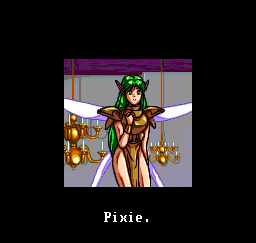
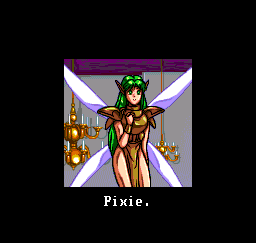
Publish final Xak I & II patch with Pixie background fix

diff --git a/README.md b/README.md
@@ -6,11 +6,11 @@ English dialogue, menus and cinematic subtitles for the Japanese PC Engine Super
 
 ## Download
 
-[Download the patch package](https://github.com/randomprojectsfactory/xak-i-ii-pce-english/releases/latest/download/Xak-I-II-English-2026.10.27.1.zip)
+[Download the final patch](https://github.com/randomprojectsfactory/xak-i-ii-pce-english/releases/download/v2026.11.17/Xak-I-II-English-Final.zip)
 
-Release: **2026.10.27.1**. The download contains two xdelta patches, a hash-checking patcher and documentation. **No BIN, CUE, ISO, BIOS, audio files or game disk images are distributed.**
+**Final release · 2026.11.17.** Apply this cumulative patch directly to the original Japanese disc. It includes all previous fixes and corrects a brief line of stray pixels during Pixie’s appearance in **BEGINNING**. The fix was confirmed on MiSTer MM2. See [issue #6](https://github.com/randomprojectsfactory/xak-i-ii-pce-english/issues/6).
 
-This update corrects English text rendering in the Xak II portion and positions cinematic subtitles within the intended 224-line visible area. The original Japanese audio, disc layout and save format are retained.
+The package contains two xdelta patches, a hash-checking patcher and documentation. Earlier versioned releases remain available for anyone with a saved download link.
 
 ## Features
 
@@ -40,15 +40,15 @@ dd778ff76546bb84f023c359bccac585dd404e5338945d6b2f20c5ff13d6f1a4
 
 That combined value identifies this ordered raw-track set; it is **not an ISO-file hash**. The manifest provides each individual track's hash, so no combined image needs to be created. Keep all original tracks, including pregap data. Do not apply these patches to an already translated image, a previous release, a merged BIN or a converted ISO.
 
-## System Card compatibility
+## Required System Card BIOS
 
-The save/load display correction uses the System Card 3 BIOS layout. The BIOS used for emulator and Turbo EverDrive Pro hardware validation has this SHA-256:
+Use the **unmodified Japanese Super CD-ROM System Card 3.0** (262,144 bytes) for the supported configuration. Its SHA-256 is:
 
 ```text
[1 lines of base64/hex data omitted]
 ```
 
-Other BIOS revisions are unverified. Supply your own BIOS where required by your emulator or device; none is included in this package.
+Use your own BIOS dump. The expected filename is `syscard3.pce` on Turbo EverDrive Pro or `cd_bios.rom` on MiSTer. Other BIOS revisions or modified dumps may fail or behave differently. The ZIP contains the checksum and excludes BIOS and disc images.
 
 ## Apply the patch
 

diff --git a/CHANGELOG.md b/CHANGELOG.md
@@ -1,5 +1,12 @@
 # Changes
 
+## 2026.11.17 (Final)
+
+- Fix stray pixels below the subtitle during Pixie’s appearance in **BEGINNING**, preserving the picture, subtitle timing and original audio.
+- Document the verified Japanese System Card 3.0 BIOS and its SHA-256.
+
+Confirmed on MiSTer MM2. Thanks to **Areku-The-OF** for reporting the issue and **mario-64** for reporting it on additional hardware. [Issue #6](https://github.com/randomprojectsfactory/xak-i-ii-pce-english/issues/6)
+
 ## 2026.10.27.1
 
 - Fix corrupted English text in the Xak II portion, including menus, shop descriptions and system messages.
